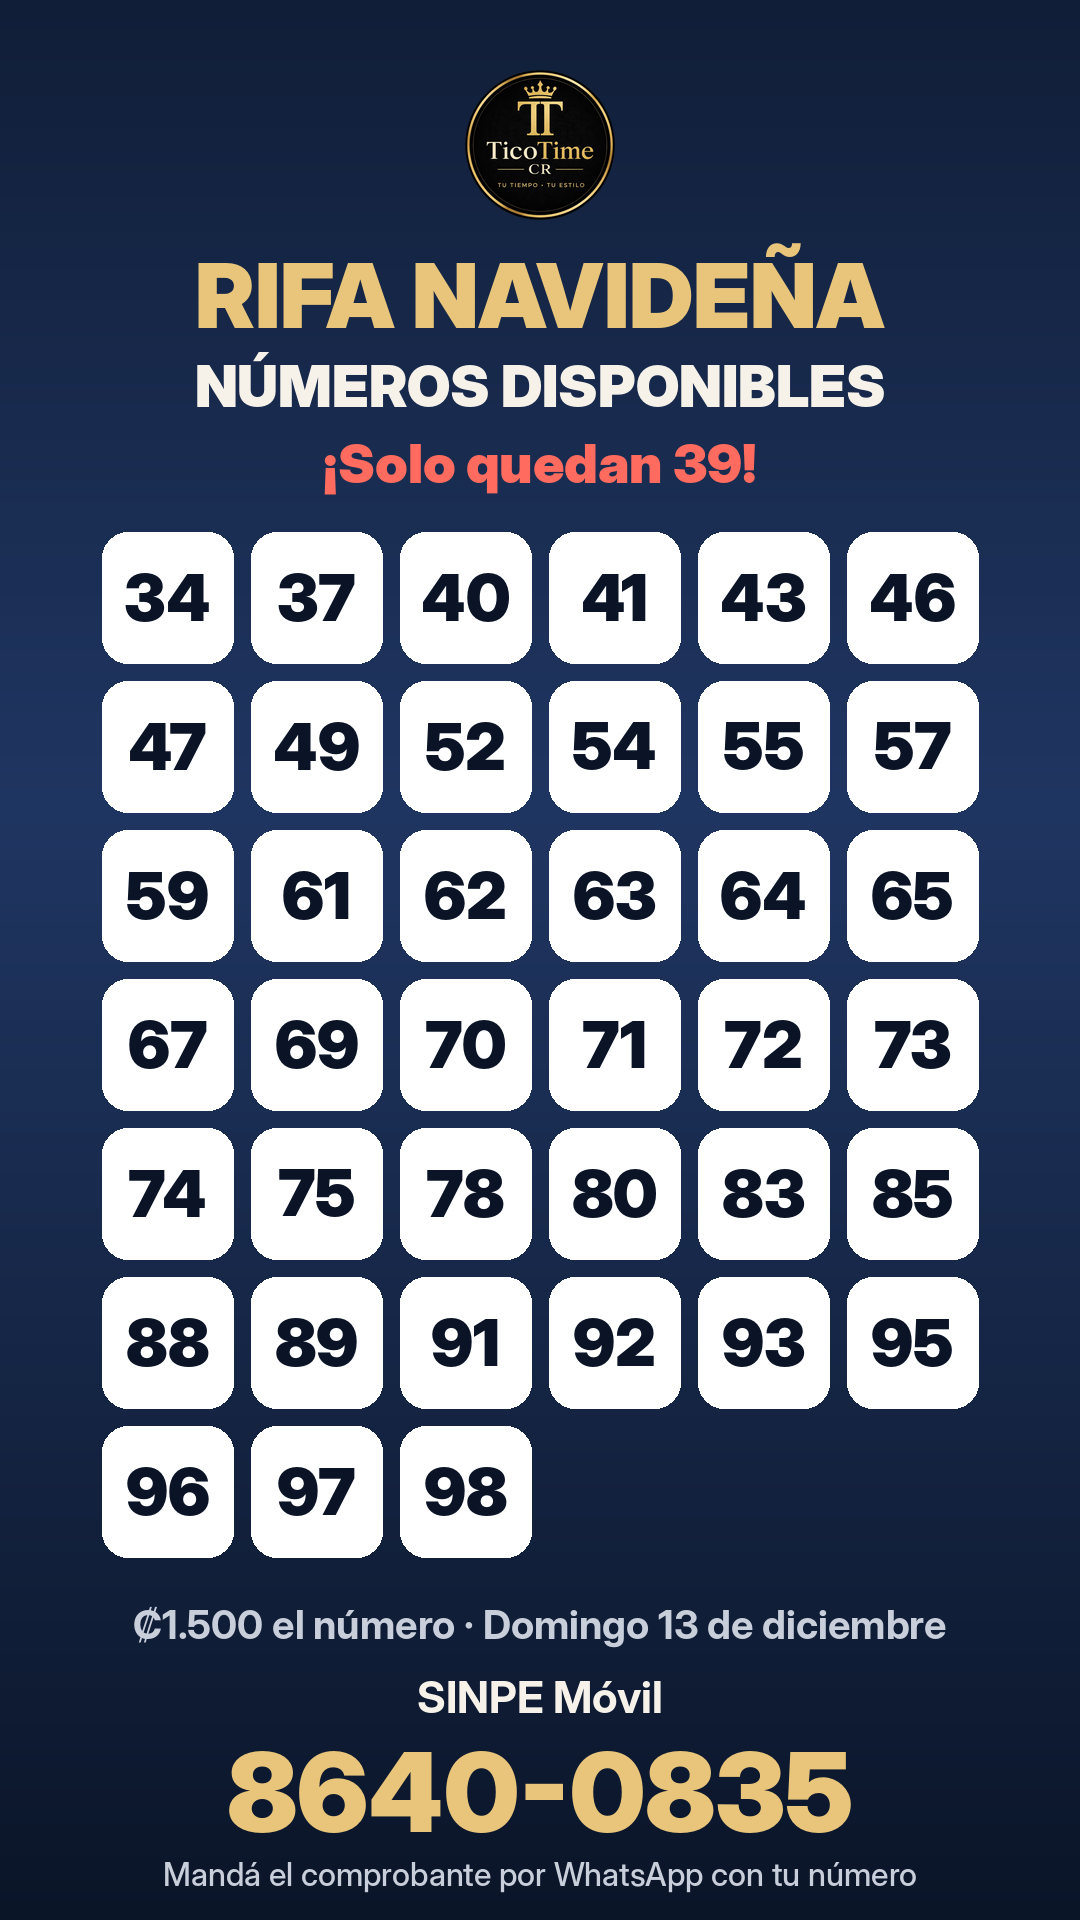
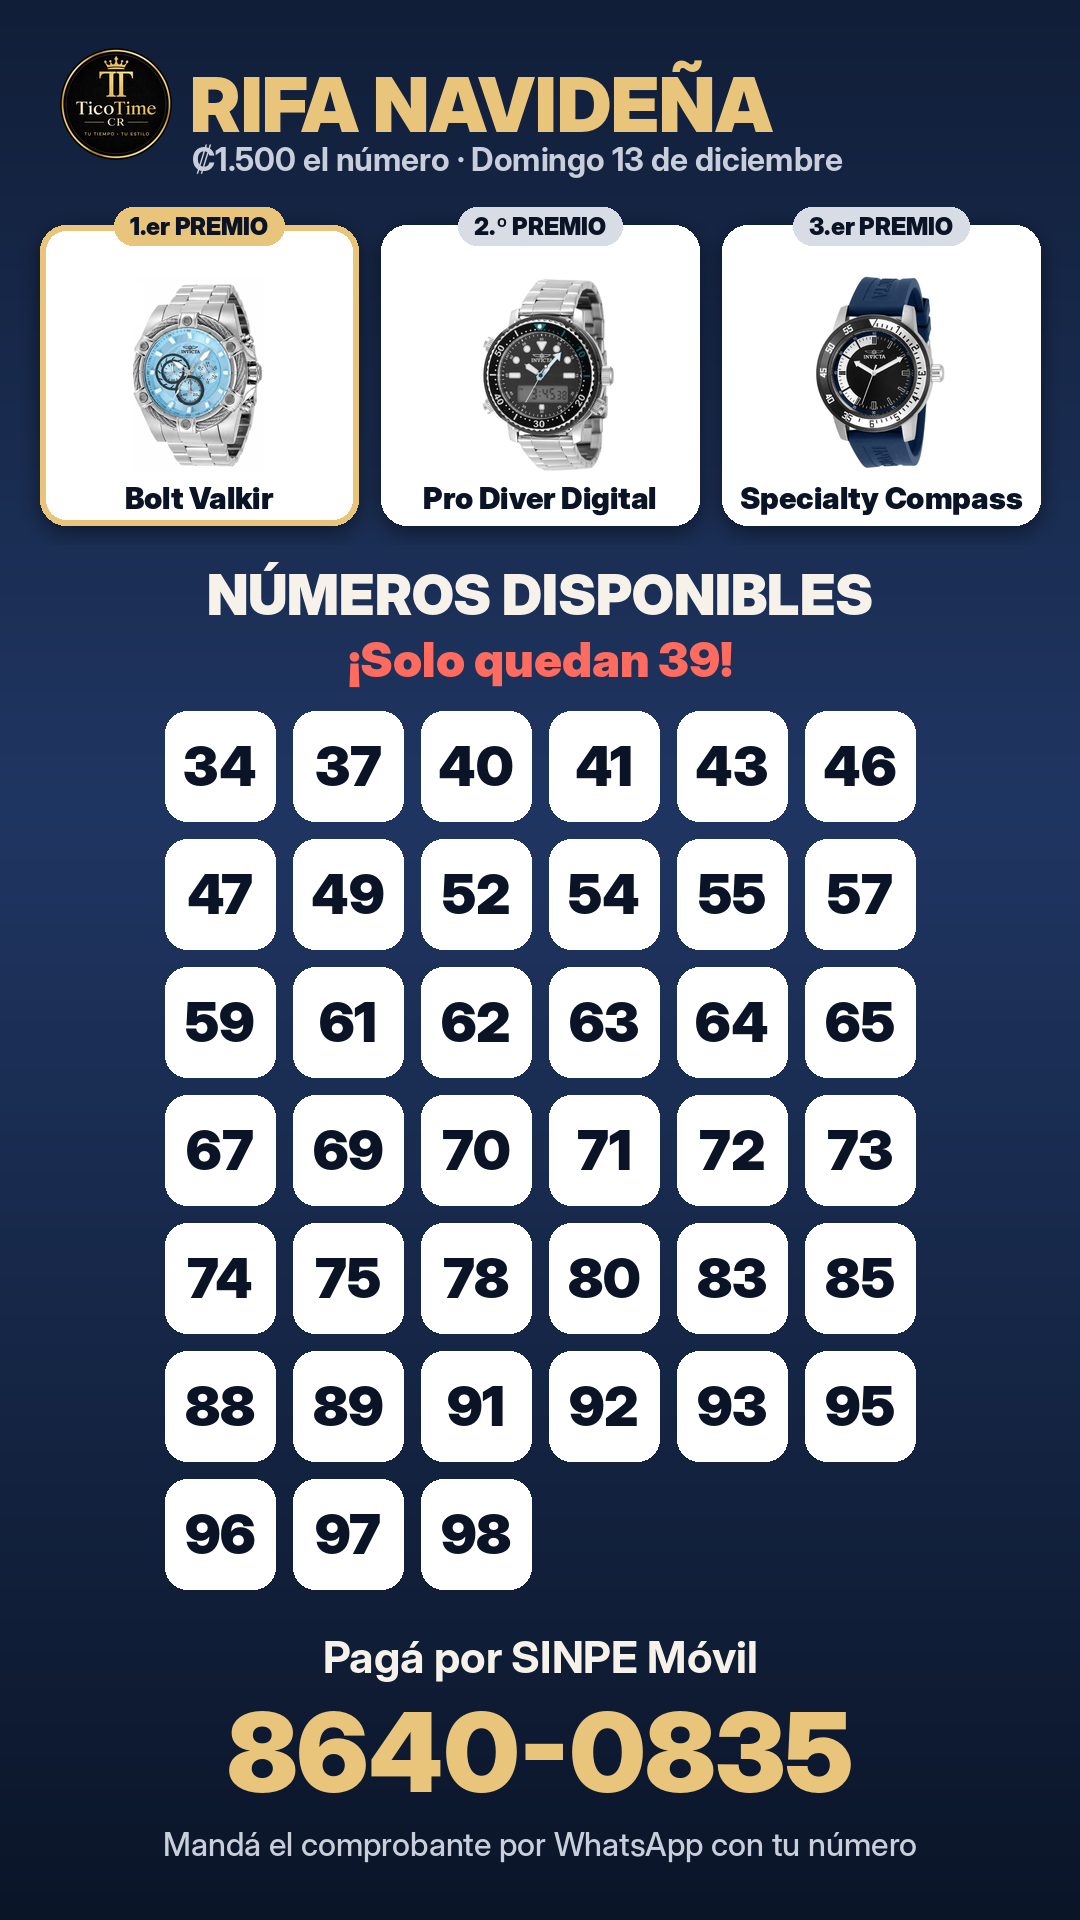
Rifa: disponibles con los 3 premios
Claude-Session: https://claude.ai/code/session_019bgvEJfhofkLun4Az8h5UL

diff --git a/social/engine/make_disponibles_rifa.py b/social/engine/make_disponibles_rifa.py
@@ -13,13 +13,25 @@ for y in range(H):
 F=lambda p,s: ImageFont.truetype(p,s)
 def ct(y,t,f,c):
     w=d.textlength(t,font=f); d.text(((W-w)/2,y),t,font=f,fill=c)
-logo=Image.open(os.path.join(ROOT,'public/assets/logo.png')).convert('RGBA').resize((150,150),Image.LANCZOS); im.paste(logo,((W-150)//2,70),logo)
-ct(240,'RIFA NAVIDEÑA',F(BLK,90),GOLD)
-ct(350,'NÚMEROS DISPONIBLES',F(BLK,58),WHITE)
-ct(430,f'¡Solo quedan {len(libres)}!',F(BLK,54),RED)
+from PIL import ImageFilter
+logo=Image.open(os.path.join(ROOT,'public/assets/logo.png')).convert('RGBA').resize((112,112),Image.LANCZOS); im.paste(logo,(60,48),logo)
+d.text((190,58),'RIFA NAVIDEÑA',font=F(BLK,76),fill=GOLD)
+d.text((192,140),'₡1.500 el número · Domingo 13 de diciembre',font=F(BLD,32),fill=MUT)
+PZ=[('323','1.er PREMIO','Bolt Valkir',GOLD),('313','2.º PREMIO','Pro Diver Digital',(216,221,229)),('347','3.er PREMIO','Specialty Compass',(216,221,229))]
+cw,ch,gp=318,300,23; x=(W-3*cw-2*gp)//2; yp=225
+for ref,lab,name,col in PZ:
+    sh=Image.new('RGBA',(cw+40,ch+40),(0,0,0,0)); ImageDraw.Draw(sh).rounded_rectangle([20,26,cw+20,ch+26],26,fill=(0,0,0,120)); bl=sh.filter(ImageFilter.GaussianBlur(10)); im.paste(bl,(x-20,yp-20),bl)
+    d.rounded_rectangle([x,yp,x+cw,yp+ch],26,fill=(255,255,255),outline=col if ref=='323' else None,width=6)
+    w=Image.open(os.path.join(ROOT,f'public/assets/disponibles/{ref}.webp')).convert('RGB'); sc=min((cw-40)/w.width,(ch-96)/w.height); w=w.resize((int(w.width*sc),int(w.height*sc)),Image.LANCZOS)
+    im.paste(w,(x+(cw-w.width)//2,yp+44))
+    f=F(BLK,24); tw=d.textlength(lab,font=f); d.rounded_rectangle([x+cw/2-tw/2-16,yp-18,x+cw/2+tw/2+16,yp+20],20,fill=col); d.text((x+cw/2-tw/2,yp-14),lab,font=f,fill=NAVY)
+    t=name; f2=F(BLK,30); tw=d.textlength(t,font=f2); d.text((x+cw/2-tw/2,yp+ch-46),t,font=f2,fill=NAVY)
+    x+=cw+gp
+ct(560,'NÚMEROS DISPONIBLES',F(BLK,56),WHITE)
+ct(630,f'¡Solo quedan {len(libres)}!',F(BLK,48),RED)
 # cuadrícula
 n=len(libres); cols=6 if n>30 else 5 if n>16 else 4
-rows=math.ceil(n/cols); top,bot=530,1560
+rows=math.ceil(n/cols); top,bot=710,1590
 cs=min(150,int((W-120-(cols-1)*18)/cols),int((bot-top-(rows-1)*18)/rows)); g=18
 gw=cols*cs+(cols-1)*g; x0=(W-gw)//2; gh=rows*cs+(rows-1)*g; y0=top+((bot-top)-gh)//2
 f=F(BLK,int(cs*0.5))
@@ -28,8 +40,7 @@ for i,nn in enumerate(libres):
     d.rounded_rectangle([x,y,x+cs,y+cs],int(cs*0.2),fill=(255,255,255))
     t=f'{nn:02d}'; w=d.textlength(t,font=f); bb=d.textbbox((0,0),t,font=f)
     d.text((x+(cs-w)/2,y+(cs-(bb[3]-bb[1]))/2-bb[1]),t,font=f,fill=NAVY)
-ct(1600,'₡1.500 el número · Domingo 13 de diciembre',F(BLD,40),MUT)
-ct(1670,'SINPE Móvil',F(BLD,44),WHITE)
-ct(1725,'8640-0835',F(BLK,110),GOLD)
-ct(1855,'Mandá el comprobante por WhatsApp con tu número',F(MED,32),MUT)
+ct(1630,'Pagá por SINPE Móvil',F(BLD,44),WHITE)
+ct(1685,'8640-0835',F(BLK,110),GOLD)
+ct(1825,'Mandá el comprobante por WhatsApp con tu número',F(MED,32),MUT)
 out=os.path.join(ROOT,'social/reels/rifa-disponibles.png'); im.save(out); print('ok',out,n)
